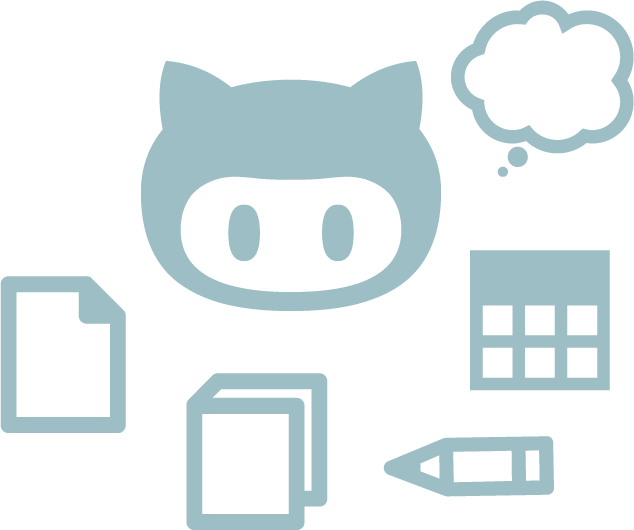
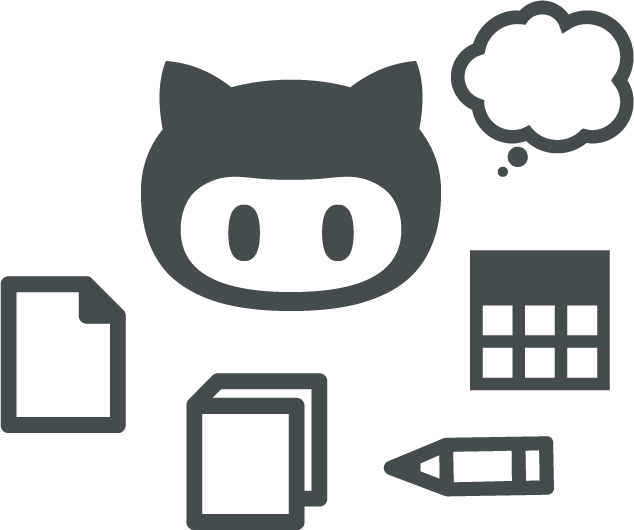
Change background, text and header colors

diff --git a/css/cv.css b/css/cv.css
@@ -1,9 +1,9 @@
 body {
-  background-color: #00ced1;
+  background-color: black;
 }
 
 .lede {
-  background-color: #00ced1;
+  background-color: black;
   padding: 60px 10px 0 10px;
 }
 
@@ -30,7 +30,7 @@ body {
   height: 70px;
   width: 60px;
   font: 300 54px/50px 'Oswald', 'Trebuchet MS', sans-serif;
-  color: #fffafa;
+  color: #B7D400;
 }
 
 .lede .content {
@@ -40,7 +40,7 @@ body {
 .lede .content h1 {
   text-transform: uppercase;
   font: 90px/100px 'BrandonGrotesque-Black', 'Helvetica Neue', 'Helvetica', sans-serif;
-  color: #8a2be2;
+  color: white;
   padding: 0;
   margin: 0 0 30px;
 }
@@ -48,7 +48,7 @@ body {
 .lede .content h2 {
   text-transform: uppercase;
   font: 11px/15px 'Chivo', 'Helvetica', sans-serif;
-  color: #000;
+  color: white;
   letter-spacing: .15em;
   margin: 0 5px;
 }
@@ -57,22 +57,23 @@ body {
   font: 400 16px/25px 'Chivo', 'Helvetica', sans-serif;
   margin: 30px 0;
   max-width: 540px;
-  color: #578;
+  color: white;
   -webkit-font-smoothing: antialiased;
   text-rendering: optimizeLegibility;
 }
 
 .lede .content p a {
-  color: #a31;
+  color: #B7D400;
 }
 
 .lede .content p a:hover {
   text-decoration: none;
-  border-bottom: 1px solid #a31;
+  border-bottom: 1px solid #B7D400;
 }
 
 .lede .content .tinytype {
   font: 11px/12px 'Chivo', Helvetica, Arial, sans-serif;
+  color: white;
 }
 
 .lede .content hr {
@@ -83,8 +84,9 @@ body {
 
 .lede .btn {
   height: 60px;
-  background-color: #00ff00;
-  color: #333;
+  background-color: #B7D400;
+  color: #black;
+  font-weight: bolder;
   padding-left: 30px;
   padding-right: 30px;
   font: 16px 'Chivo', 'Helvetica', sans-serif;
@@ -96,7 +98,7 @@ body {
 }
 
 .showcase .module {
-  background-color: rgba(255, 255, 255, .7);
+  background-color: rgba(245, 245, 245, .2);
   max-width: 460px;
   height: 300px;
   padding: 20px 60px;
@@ -108,7 +110,7 @@ body {
   text-transform: uppercase;
   word-wrap: break-word;
   font: 30px/32px 'BrandonGrotesque-Black', 'Helvetica Neue', 'Helvetica', sans-serif;
-  color: #8a2be2;
+  color: #B7D400;
   margin: 30px 0 0 0;
   min-height: 100px;
 }
@@ -118,13 +120,13 @@ body {
   margin: 0 0 15px 0;
   list-style: none;
   font: 12px/15px 'Chivo', 'Helvetica Neue', Helvetica, Arial, sans-serif;
-  color: #555;
+  color: white;
   max-width: 300px;
   margin-left: 60px;
 }
 
 .showcase p a {
-  color: #c54;
+  color: #B7D400;
 }
 
 .showcase .resources {
